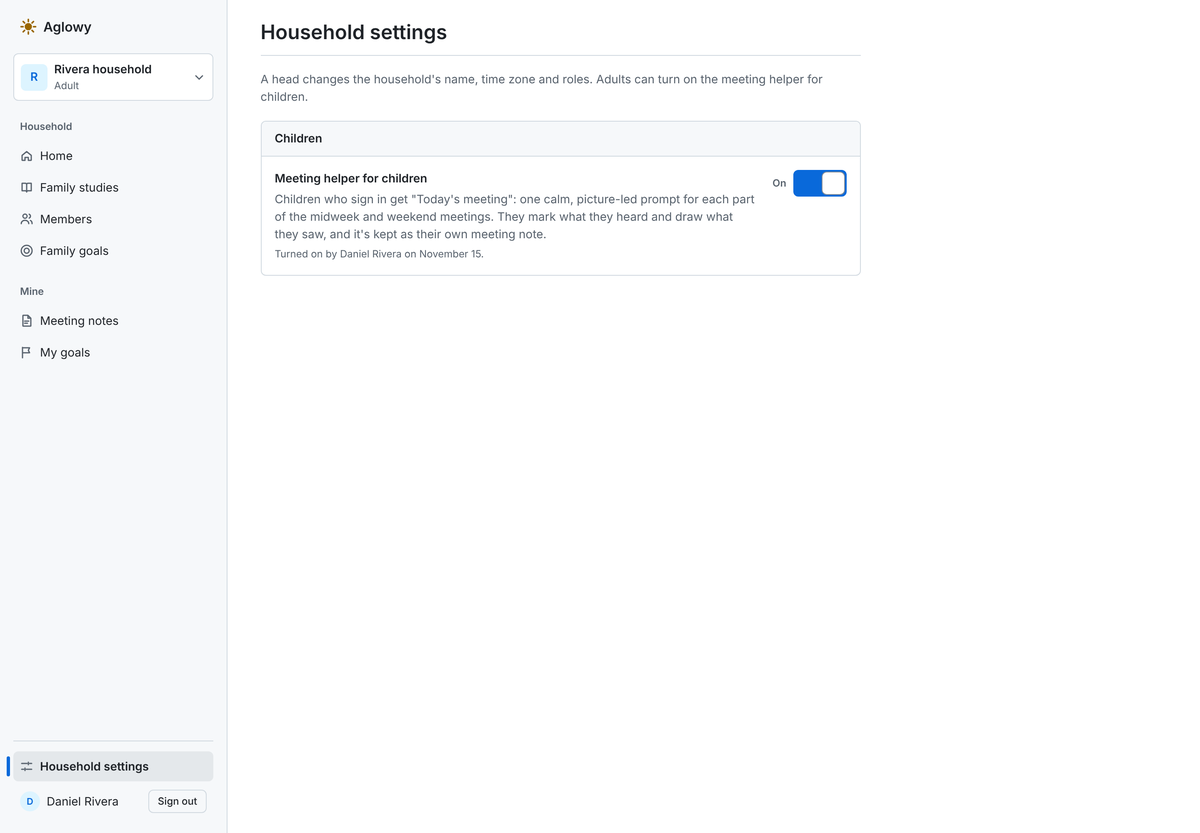
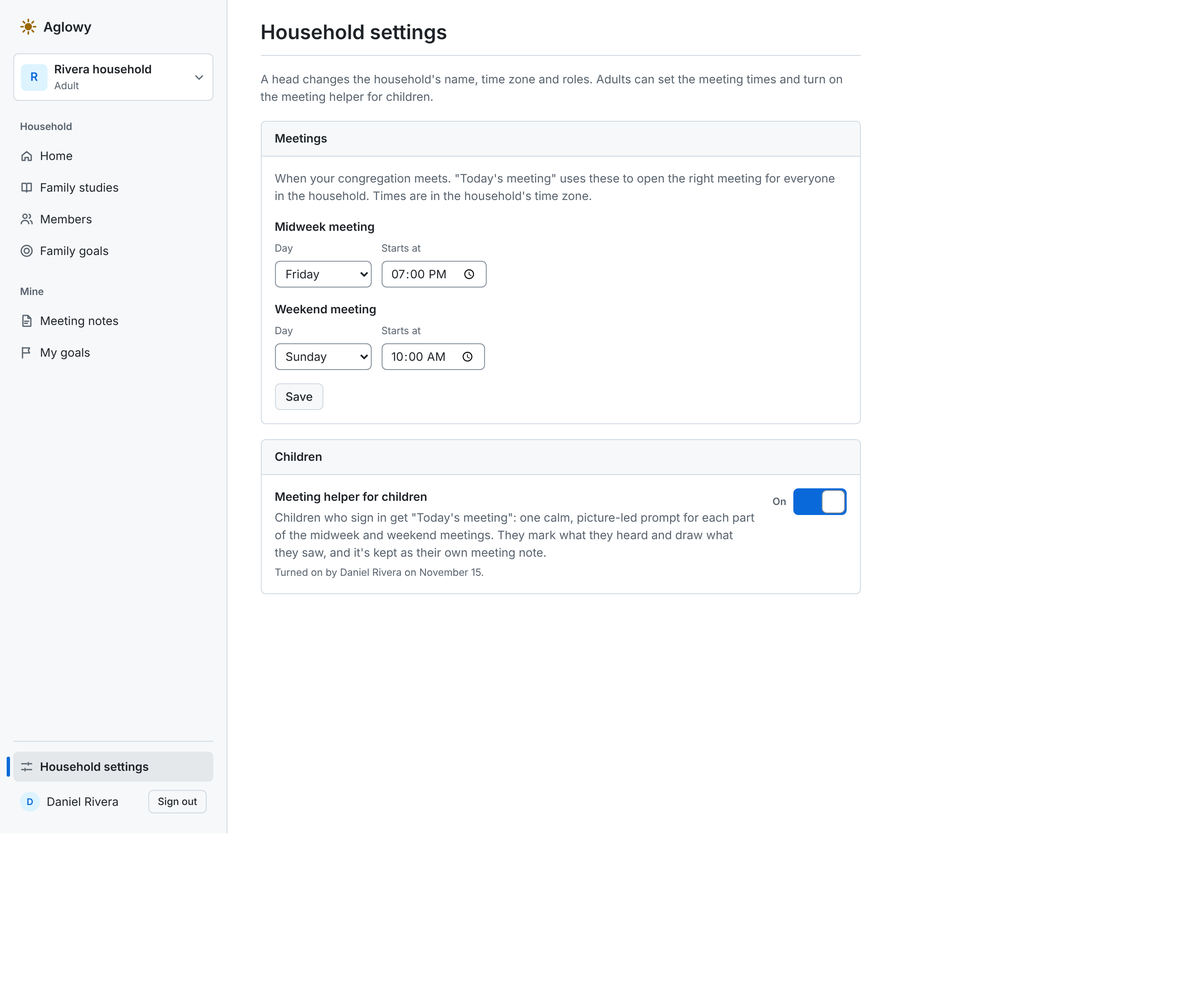
Design: Today's meeting for everyone, plus review fixes
Heads and adults set the meeting times in Household settings. Today's
meeting opens the current or next meeting: the helper for a child when
it's on, the person's meeting note otherwise. Sidebar item always; Home
card on meeting days; a picker before times are set.

Review fixes: the drawing image route uses the shared-note lookup and
not the helper policy; the meeting_helper layout is named as the
exception in CLAUDE.md and app-shell.md; the sidebar rule in
invitations.md includes adults.

Claude-Session: https://claude.ai/code/session_0134z7YhxhHiNN5ED15LNroy

diff --git a/docs/design/meeting-helper.md b/docs/design/meeting-helper.md
@@ -1,49 +1,91 @@
-# Meeting helper for children
+# Today's meeting and the meeting helper for children
 
-"Today's meeting" helps a young child stay with each part of a congregation meeting. It runs on the child's own tablet: one calm, picture-led prompt per part, a big "I heard it!" button, and a page to draw what they saw. What they do is saved as their own meeting note, and they can show it to their family afterwards.
+**Today's meeting** opens the right congregation meeting for everyone in the household. A head or adult sets when the midweek and weekend meetings happen, in Household settings. On a meeting day, Home shows a "Today's meeting" card, and the sidebar always has a "Today's meeting" item that opens the current or next meeting.
 
-Read this before touching `Household::MeetingHelper`, `MeetingNote::Mark`, `MeetingNote::Drawing`, `MeetingNote::HelperSteps`, the `meeting_helper` layout or the Children section of Household settings. Stories live under the **KIDS-01** epic. Mockup frames are in `docs/design/meeting-helper/`.
+- **Most people** land on their own meeting note for that meeting, ready to take notes.
+- **A child, when the household has turned on the meeting helper,** gets the helper instead. It runs on the child's own tablet: one calm, picture-led prompt per part, a big "I heard it!" button, and a page to draw what they saw. It's saved as their own meeting note, and they can show it to their family afterwards.
 
-This builds on `docs/design/meeting-notes.md` (a helper note *is* a `MeetingNote`), `docs/design/invitations.md` (child username logins, Household settings) and `docs/design/app-shell.md`.
+Read this before touching meeting times on `Household`, `Household::Meeting`, `Household::MeetingHelper`, `MeetingNote::Mark`, `MeetingNote::Drawing`, `MeetingNote::HelperSteps`, `TodaysMeetingsController`, the `meeting_helper` layout, or the Meetings and Children sections of Household settings. Stories live under the **KIDS-01** epic. Mockup frames are in `docs/design/meeting-helper/`.
+
+This builds on these docs:
+- `docs/design/meeting-notes.md`: every Today's meeting note *is* a `MeetingNote`.
+- `docs/design/invitations.md`: child username logins and Household settings.
+- `docs/design/app-shell.md`.
 
 ## Decisions (Casey, 15 Nov)
 
-- **For children aged about 4 to 8**, on a children's tablet, signed in with their own username login.
-- **Off by default.** A head or an adult turns it on for the household in Household settings.
+- **Today's meeting is for everyone in the household.**
+  - Heads and adults set the meeting times in Household settings: a day and a start time for the midweek meeting and for the weekend meeting.
+  - Children with the helper on get the helper. Everyone else, including children while the helper is off, gets their own meeting note.
+- **The sidebar item always shows; the Home card shows only on meeting days.** Home stays calm on other days.
+- **Before any times are set,** Today's meeting asks "Which meeting is it?", with Midweek and Weekend.
+- **The helper is for children aged about 4 to 8**, on a children's tablet, signed in with their own username login.
+- **The helper keeps its own switch, off by default.** A head or an adult turns it on in Household settings.
 - **Pictures over words.** Many children this age can't read yet, so every part has a big icon and one short prompt a parent can read aloud before the meeting.
 - **Drawing is the main way to respond.** Typing stays on the normal meeting note page for older children.
-- **Calm, and nothing that nags:** dark screen, no sounds, no animation, no points, streaks or rewards (`docs/product/vision.md`, goal 4).
-- **Entry points:** a "Today's meeting" card at the top of a child's Home, and a "Today's meeting" item in the sidebar's Mine group, both only while the helper is on.
-- **A parent reads it** when the child taps "Show my family", which is the existing meeting-note sharing. The shared note shows "Talk about it with <child>" questions taken from the prompts. No AI.
+- **Calm, and nothing that nags:** a dark screen, no sounds, no animation, and no points, streaks or rewards (`docs/product/vision.md`, goal 4).
+- **A parent reads it** when the child taps "Show my family", using the existing meeting-note sharing. The shared note shows "Talk about it with <child>" questions taken from the prompts. No AI.
 
 ## What KIDS-01 builds, and what comes later
 
 | In KIDS-01 | Later |
 | --- | --- |
-| The household switch, for heads and adults | Preparing a Watchtower comment with a parent beforehand ("Your paragraph is 7") |
-| Today's meeting: pick midweek or weekend, then one part at a time | Prompts written for that week's program |
-| "I heard it!" marks | A child mode on a parent's phone, for children without a login |
-| Drawing on a part | Light theme for the helper |
-| The end screen and "Show my family" | Spoken prompts (would need sound in the hall; not planned) |
-| Home card and sidebar item | |
-| A parent reading the helper note, with "Talk about it" | |
+| Meeting times in Household settings, for heads and adults | Weeks with no meetings (assemblies, conventions) and circuit overseer visit weeks |
+| Today's meeting for everyone: sidebar item, Home card on meeting days, the right note | Preparing a Watchtower comment with a parent beforehand ("Your paragraph is 7") |
+| The helper switch, for heads and adults | Prompts written for that week's program |
+| The helper: one part at a time, "I heard it!" marks, drawing | A child mode on a parent's phone, for children without a login |
+| The helper's end screen and "Show my family" | Light theme for the helper |
+| A parent reading a helper note, with "Talk about it" | Reminders before a meeting (with notifications) |
 
 ## Who can do what
 
 | Action | Head | Adult | Child |
 | --- | --- | --- | --- |
-| Turn the helper on or off for the household | yes | yes | no |
-| Open Household settings | yes, the whole page | yes, the Children section only (**new**) | no |
-| Use Today's meeting | no | no | yes, while the helper is on |
-| Read a helper note | their own | their own | their own; also any note shared with the household, like every meeting note |
+| Set the meeting times | yes | yes | no |
+| Turn the helper on or off | yes | yes | no |
+| Open Household settings | yes, the whole page | yes, the Meetings and Children sections only (**new**) | no |
+| Open Today's meeting | yes, their meeting note | yes, their meeting note | yes: the helper while it's on, otherwise their meeting note |
+| Use the helper's steps, marks, drawing and end screen | no | no | yes, while the helper is on |
+| Read a helper note | their own | their own | their own; and, like every meeting note, any note shared with the household |
 
-- Today's meeting is for **children only** in KIDS-01. A head or adult who visits its URLs gets a 404, and so does a child while the helper is off.
-- **Hiding the card isn't authorization** (app-shell.md): every helper controller checks the policy too.
-- Turning the helper off hides Today's meeting. It never deletes a child's marks or drawings, which are the child's own content.
+- The helper's own pages (steps, marks, drawing editing, the end screen) are **for children only, while the helper is on**. Anyone else gets a 404 there.
+- **The drawing image route is not a helper page.** It follows the meeting-note reading rule instead, so a parent can see a shared drawing, even after the helper is turned off. See Trap 1.
+- **Hiding a link isn't authorization** (app-shell.md): every controller checks its own policy.
+- Turning the helper off hides the helper. It never deletes a child's marks or drawings, which are the child's own content.
 
-## The steps
+## Meeting times
 
-A helper note follows a fixed list of steps per meeting kind, defined in code like `MeetingNote::Outline`. The steps are not the outline's parts: songs and prayers are steps but not parts, and Field Ministry is one step even when the program has several parts. `MeetingNote::HelperSteps` (a PORO in `app/models/meeting_note/helper_steps.rb`) holds them. Each `Step` is a `Data` with `key`, `title`, `short_title`, `prompt`, `draw_prompt`, `mark_label`, `marked_label`, `icon`, `tone` and `talk_question`.
+### On `Household`
+
+| Column | Type | Constraint | Why |
+| --- | --- | --- | --- |
+| `midweek_meeting_wday` | smallint | nullable, check between 0 and 6 | Ruby's `wday`: 0 is Sunday |
+| `midweek_meeting_time` | time | nullable | Wall-clock time in the household's time zone |
+| `weekend_meeting_wday` | smallint | nullable, check between 0 and 6 | |
+| `weekend_meeting_time` | time | nullable | |
+| check | | all four null, or all four set (`num_nulls(...) in (0, 4)`) | Times are set together |
+
+These are settings, not state, so plain columns are right here; State as Records doesn't apply. `household.meeting_times_set?` is true when they're set.
+
+### `Household::Meeting`
+
+A PORO (`Data.define(:kind, :starts_at)`) in `app/models/household/meeting.rb`, with:
+- `week_of`: `starts_at.to_date.beginning_of_week(:monday)`. A Sunday weekend meeting belongs to the week that started the Monday before, matching `MeetingNote`'s `week_of`.
+- `ends_at`: `starts_at + Household::Meeting::LENGTH`, where `LENGTH` is 2 hours.
+- `title`: "Midweek meeting" or "Weekend meeting".
+
+`household.current_or_next_meeting(now = Time.current)` works it out:
+1. In the household's time zone, build each kind's occurrence in this week and in next week. The date is the Monday plus `(wday - 1) % 7` days, and the time comes from `ActiveSupport::TimeZone#local`, so changes to and from daylight saving time are right.
+2. Return the earliest occurrence whose `ends_at` is after `now`.
+3. Return nil when the times aren't set.
+
+`household.meeting_day?(now)` is true when `current_or_next_meeting` starts today, in the household's time zone.
+
+## The helper's steps
+
+A helper note follows a fixed list of steps per meeting kind, defined in code like `MeetingNote::Outline`. The steps are not the outline's parts: songs and prayers are steps but not parts, and Field Ministry is one step even when the program has several parts.
+
+`MeetingNote::HelperSteps` is a PORO in `app/models/meeting_note/helper_steps.rb`. Each `Step` is a `Data` with `key`, `title`, `short_title`, `prompt`, `draw_prompt`, `mark_label`, `marked_label`, `icon`, `tone` and `talk_question`.
 
 **Midweek (8 steps)**
 
@@ -67,9 +109,9 @@ A helper note follows a fixed list of steps per meeting kind, defined in code li
 | `watchtower_study` | Watchtower Study | Look at the pictures. Raise your hand if you know an answer. | Draw a picture from the study. | I watched! / Watched it | weekend | Which picture did you like? |
 | `closing_song` | Song and prayer | Sing the last song together. | Draw something you sang about. | We sang! / Sang it | song | What was the last song about? |
 
-Tones map to the meeting-note section dots: `treasures` → muted, `ministry` and `weekend` → attention, `living` → danger, `song` → accent. When a drawing exists, its "Talk about it" question becomes "Tell me about your drawing" followed by the step's short title.
+Tones map to the meeting-note section dots: `treasures` → muted, `ministry` and `weekend` → attention, `living` → danger, `song` → accent. When a step has a drawing, its "Talk about it" question becomes "Tell me about your drawing" followed by the step's short title.
 
-Icons are our own decorative SVGs in `app/assets/images/meeting_helper/` (music, ear, gem, book, people talking, house with heart, picture, raised hand), drawn as 24px outlines with 1.75px strokes like the mockup, rendered inline with `aria-hidden="true"`. Octicons has no ear, gem or raised hand.
+Icons are our own decorative SVGs in `app/assets/images/meeting_helper/` (music, ear, gem, book, people talking, house with heart, picture, raised hand). They're drawn as 24px outlines with 1.75px strokes like the mockup and rendered inline with `aria-hidden="true"`. Octicons has no ear, gem or raised hand.
 
 ## Models
 
@@ -83,7 +125,10 @@ The switch is a record, not a boolean (CLAUDE.md, State as Records): it exists w
 | `enabled_by_id` | uuid | FK → users, not null | "Turned on by Daniel Rivera on November 15" |
 | `created_at`, `updated_at` | datetime | | When it was turned on |
 
-`Household has_one :meeting_helper`. `household.enable_meeting_helper(by:)` uses `create_or_find_by!`, so two adults turning it on at once can't make two rows or raise. `household.disable_meeting_helper` deletes it. `household.meeting_helper?` reads it.
+- `Household has_one :meeting_helper`.
+- `household.enable_meeting_helper(by:)` uses `create_or_find_by!`, so two adults turning it on at once can't make two rows or raise.
+- `household.disable_meeting_helper` deletes it.
+- `household.meeting_helper?` reads it.
 
 ### `MeetingNote::Mark`
 
@@ -106,63 +151,121 @@ The switch is a record, not a boolean (CLAUDE.md, State as Records): it exists w
 | `created_at`, `updated_at` | datetime | | |
 | unique index | | (`meeting_note_id`, `step`) | One drawing per step; drawing again replaces it |
 
-`MeetingNote has_many :marks` and `has_many :drawings` (both `dependent: :destroy`, so attachments are purged). A drawing is personal content: it does not count toward the household's storage quota. Images aren't encrypted by the app (they aren't text); they live in the private bucket and are only served through an authorizing controller, like family study files (family-studies.md, Files; gotcha 22).
+- `MeetingNote has_many :marks` and `has_many :drawings`, both `dependent: :destroy`, so attachments are purged.
+- A drawing is personal content: it doesn't count toward the household's storage quota.
+- Images aren't encrypted by the app, because they aren't text. They live in the private bucket and are only served through an authorizing controller, like family study files (family-studies.md, Files; gotcha 22).
 
-`MeetingNote#helper_steps` returns `HelperSteps.for(kind)`. `MeetingNote#mark(step)` and `#unmark(step)` add or remove a mark, `MeetingNote#helper_used?` is true when it has any marks or drawings, and `MeetingNote#talk_questions` returns up to 3 questions, from drawn steps first, then marked ones, in step order.
+Methods on `MeetingNote`:
+- `helper_steps` returns `HelperSteps.for(kind)`.
+- `mark(step)` and `unmark(step)` add or remove a mark.
+- `helper_used?` is true when the note has any marks or drawings.
+- `talk_questions` returns up to 3 questions: drawn steps first, then marked ones, in step order.
 
 ## Pages
 
 | Page | Route | What's on it |
 | --- | --- | --- |
-| Household settings, Children section | `GET /:household_id/settings` (existing); `PATCH /:household_id/meeting_helper` (`Households::MeetingHelpersController#update`) | Frames `household-settings-head.png`, `household-settings-adult.png`. A Primer `BorderBox` "Children". The mockup draws a switch; build it as a Primer form (`Households::MeetingHelperForm`) with one check box, "Meeting helper for children", its caption, and a Save button. Primer's ToggleSwitch only POSTs a value to one URL, which doesn't fit our CRUD routes. When it's on, a muted line says "Turned on by <name> on <date>". Adults see only this section and a line saying a head changes the name, time zone and roles |
-| Today's meeting, pick | `GET /:household_id/todays_meeting` (`TodaysMeetingsController#show`) | Frame `tablet-pick.png`. "Hi, <first name>!", "Which meeting is it?", and two big buttons, Midweek meeting (8 parts) and Weekend meeting (4 parts) |
-| Start | `POST /:household_id/todays_meeting` (`kind`) | `Current.user.start_meeting_note(kind:, week_of: Current.membership.this_week)`, then redirect to the first step |
-| A step | `GET /:household_id/meeting_notes/:meeting_note_id/steps/:id` (`MeetingNotes::StepsController#show`; `:id` is the step key) | Frames `tablet-listen.png`, `tablet-listen-light.png` (light shown for reference only), `tablet-weekend-watchtower.png`. The step's title in small print with its tone dot, the big icon, the prompt as the `h1`, the mark button and "Draw it" ("My drawing" when one exists), and Back and Next ("Finish" on the last step). Back on the first step goes to the picker |
+| Household settings, Meetings section | `GET /:household_id/settings` (existing); `PATCH /:household_id/meeting_times` (`Households::MeetingTimesController#update`) | Frames `household-settings-head.png`, `household-settings-adult.png`. A `BorderBox` "Meetings" with a line explaining what the times are for, then a Primer form (`Households::MeetingTimesForm`): for each meeting, a Day select (Monday to Sunday) and a "Starts at" time field, then Save. All four are required together |
+| Household settings, Children section | `PATCH /:household_id/meeting_helper` (`Households::MeetingHelpersController#update`) | A `BorderBox` "Children". The mockup draws a switch; build it as a Primer form (`Households::MeetingHelperForm`) with one check box, "Meeting helper for children", its caption, and a Save button, because Primer's ToggleSwitch only POSTs a value to one URL, which doesn't fit our CRUD routes. When the helper is on, a muted line says "Turned on by <name> on <date>". Adults see the Meetings and Children sections and a line saying a head changes the name, time zone and roles |
+| Today's meeting | `GET /:household_id/todays_meeting` (`TodaysMeetingsController#show`) | See below. A child with the helper gets the `meeting_helper` layout; everyone else gets the household layout |
+| Start | `POST /:household_id/todays_meeting` (`kind` and `week_of` from the page, checked against what the page offered) | `Current.user.start_meeting_note(kind:, week_of:)`, then the note's first step (a child with the helper) or the note's edit page (everyone else) |
+| A step | `GET /:household_id/meeting_notes/:meeting_note_id/steps/:id` (`MeetingNotes::StepsController#show`; `:id` is the step key) | Frames `tablet-listen.png`, `tablet-listen-light.png` (light shown for reference only), `tablet-weekend-watchtower.png`. The step's title in small print with its tone dot, the big icon, the prompt as the `h1`, the mark button and "Draw it" ("My drawing" once one exists), and Back and Next ("Finish" on the last step). Back on the first step goes to Today's meeting |
 | Mark | `POST` / `DELETE …/steps/:step_id/mark` (`MeetingNotes::Steps::MarksController`) | Turbo Stream replaces the mark button: "I heard it!" ↔ "✓ Heard it" (`aria-pressed`) |
-| Draw | `GET …/steps/:step_id/drawing/edit`, `PATCH …/steps/:step_id/drawing` (`MeetingNotes::Steps::DrawingsController`) | Frame `tablet-draw.png`. The draw prompt as the `h1`, "All done", the canvas, seven colours, Undo and Start over. An existing drawing loads onto the canvas so the child can add to it. "All done" saves and returns to the step |
-| A drawing's image | `GET …/steps/:step_id/drawing` (`show`) | Authorizes (the author, or a member the note is shared with), then redirects to a short-lived service URL |
-| The end | `GET /:household_id/meeting_notes/:meeting_note_id/summary` (`MeetingNotes::SummariesController#show`) | Frame `tablet-done.png`. "You listened all the way through!", a tile per step with its mark or drawing, "Show my family" (the existing `POST …/sharing`, which returns here) or "Your family can see it now", and "Finished" to Home |
-| Child's Home | `GET /:household_id` | Frame `child-home.png`. While the helper is on and the viewer is a child: a "Today's meeting" card above the columns with "Start", and "Today's meeting" (Octicon `sun`) first in the sidebar's Mine group |
-| A helper note, read | `GET /:household_id/meeting_notes/:id` (existing) | Frame `phone-parent.png`. When `helper_used?`: a "From Today's meeting" section with "Talk about it with <first name>" (from `talk_questions`) and each step with its mark or drawing. It shows for the author and for members it's shared with. Empty outline parts stay hidden as today |
+| Draw | `GET …/steps/:step_id/drawing/edit`, `PATCH …/steps/:step_id/drawing` (`MeetingNotes::Steps::DrawingsController`) | Frame `tablet-draw.png`. The draw prompt as the `h1`, "All done", the canvas, seven colours, Undo and Start over. An existing drawing loads onto the canvas so the child can add to it. "All done" saves and goes back to the step |
+| A drawing's image | `GET …/steps/:step_id/drawing` (`show`) | Not a helper page (Trap 1). Finds the note among the person's own notes or those shared into this household, authorizes with `MeetingNotePolicy#show?`, then redirects to a short-lived service URL |
+| The end | `GET /:household_id/meeting_notes/:meeting_note_id/summary` (`MeetingNotes::SummariesController#show`) | Frame `tablet-done.png`. "You listened all the way through!", a tile per step with its mark or drawing, "Show my family" (the existing `POST …/sharing`, which comes back here) or "Your family can see it now", and "Finished" to Home |
+| Home on a meeting day | `GET /:household_id` | Frames `adult-home-meeting.png`, `child-home.png`. Above the columns, a "Today's meeting" card shows the meeting's title and start time ("Midweek meeting · 7:00 PM"). For a child with the helper, it says "Listen for things and draw what you see, one part at a time." with **Start**. For everyone else, it says "Take notes as you go. They stay yours in every household." with **Open my notes**. The button posts to Start |
+| Sidebar | every household page | "Today's meeting" (Octicon `sun`) comes first in the Mine group for every member, always |
+| A helper note, read | `GET /:household_id/meeting_notes/:id` (existing) | Frame `phone-parent.png`. When `helper_used?`, a "From Today's meeting" section shows "Talk about it with <first name>" (from `talk_questions`) and each step with its mark or drawing, for the author and for members it's shared with. Empty outline parts stay hidden as they are today |
+
+### The Today's meeting page
+
+`GET` never creates anything. Turbo prefetches links on hover, so a page that made notes on `GET` would make them for anyone who hovered the sidebar.
+
+- **Times set:**
+  - If the person already has a note for `current_or_next_meeting`, redirect to it: its first step for a child with the helper, its edit page for everyone else.
+  - Otherwise show that one meeting: its title, day and start time ("Midweek meeting · Friday 7:00 PM"), and one big button, "Start my notes" or, for a child with the helper, "Start".
+- **No times set:**
+  - "Which meeting is it?" with two buttons, Midweek meeting and Weekend meeting, for this week (`Current.membership.this_week`). This is frame `tablet-pick.png` for a child with the helper.
+  - Heads and adults also see "Set your meeting times" linking to Household settings.
 
 ### The `meeting_helper` layout
 
-- Full screen, no sidebar: a header with "Back to Aglowy" (an icon link to Home with `aria-label`), the step dots (decorative, with visually hidden "Part 2 of 8: Treasures From God's Word"), and the meeting's name.
-- `<body data-color-mode="dark" data-light-theme="light" data-dark-theme="dark">`: always dark in KIDS-01. A bright screen glows in a meeting hall.
+- Full screen, no sidebar.
+  - A header with "Back to Aglowy": an icon link to Home with an `aria-label`.
+  - The step dots, decorative, with visually hidden text like "Part 2 of 8: Treasures From God's Word".
+  - The meeting's name.
+- `<body data-color-mode="dark" data-light-theme="light" data-dark-theme="dark">`: always dark in KIDS-01, because a bright screen glows in a meeting hall.
 - `lang`, `<main>` and landmarks as everywhere. The page title is "Today's meeting".
-- Sizes (base-size primitives): prompt 46px type, mark and draw buttons at least 96px tall, Back and Next at least 72px, colour swatches 60px. Use Primer `Button` with a BEM modifier for the large size, and other BEM classes in `app/assets/stylesheets/components/_meeting_helper.scss`, built only from primitives.
+- Sizes, from base-size primitives:
+  - prompt type 46px
+  - mark and draw buttons at least 96px tall
+  - Back and Next at least 72px tall
+  - colour swatches 60px
+- Use Primer `Button` with a BEM modifier for the large size. Other styles are BEM classes in `app/assets/stylesheets/components/_meeting_helper.scss`, built only from primitives.
 - No sounds, no CSS transitions or animations, no counters.
 
-### Drawing
+## Drawing
 
-- A `<canvas>` with a Stimulus controller (`meeting_helper/drawing_controller.js`): pointer events (`pointerdown`, `pointermove`, `pointerup`, `pointercancel`) with `setPointerCapture`, and `touch-action: none` so the tablet doesn't scroll.
-- Draw at a fixed 1116×470 logical size, scaled by `devicePixelRatio`. Strokes are 9px round in the picked colour on the dark paper colour.
-- Undo pops the last stroke and redraws; Start over clears.
-- "All done": `canvas.toBlob("image/png")`, put the file into the form's hidden file input with `DataTransfer`, and submit. The form is a Primer form class with that file input inside, the same pattern as the file drop zone.
+- A `<canvas>` with a Stimulus controller (`meeting_helper/drawing_controller.js`).
+- Pointer events (`pointerdown`, `pointermove`, `pointerup`, `pointercancel`) with `setPointerCapture`, and `touch-action: none` so the tablet doesn't scroll.
+- Draw at a fixed 1116×470 logical size, scaled by `devicePixelRatio`, with 9px round strokes in the picked colour on the dark paper colour.
+- Undo removes the last stroke and redraws; Start over clears.
+- "All done":
+  1. `canvas.toBlob("image/png")`.
+  2. Put the file into the form's hidden file input with `DataTransfer`.
+  3. Submit. The form is a Primer form class with that file input inside, the same pattern as the file drop zone.
 - The canvas has `role="img"` and `aria-label="Drawing space. Draw with your finger."`. Drawing is optional; everything else works from the keyboard.
 
-## CLAUDE.md change in this design PR
+## CLAUDE.md and app-shell.md changes in this design PR
 
-Add a **third approved exception** to Forms and to the Primer rule: the meeting helper's child screens (large touch targets in BEM Sass from primitives) and its drawing canvas (Stimulus). Primer has neither. Both still use Primer `Button` and a Primer form wherever a button or form appears.
+- **Forms:** a third approved exception, for the meeting helper's child screens (large touch targets in BEM Sass from primitives) and its drawing canvas (Stimulus). Primer has neither. Both still use Primer `Button` and a Primer form wherever a button or form appears.
+- **Layouts:**
+  - The `meeting_helper` layout is the one household-scoped exception to "Household pages use the `household` layout". It's used only for a child with the helper on.
+  - It's also the one exception to automatic theming: it's always dark.
 
 ## Traps
 
-1. **The note comes from `Current.user`.** `Current.user.meeting_notes.find(params[:meeting_note_id])`, so anyone else's note is a 404, including on the drawing image route, which also allows members the note is shared with (reuse `MeetingNotePolicy#show?`).
-2. **A step key that isn't in the note's kind is a 404**, never a 500 (`HelperSteps.for(kind).fetch(key)` raising `ActiveRecord::RecordNotFound`).
-3. **The week comes from `Current.membership.this_week`,** which respects the person's or household's time zone. `start_meeting_note` finds or creates on the unique index, so a double tap can't make two notes.
-4. **Turning the helper off deletes nothing** of the children's. Turning it on twice at once makes one row (`create_or_find_by!`, unique index).
-5. **The policy needs both** a child membership and the household's helper. A child whose role changes to adult loses Today's meeting, but keeps their notes.
-6. **Validate drawings on the server:** content type `image/png` from the blob's analysis, not the request header, and at most 2 MB. A bad file is a validation error, not a 500.
-7. **Never render `url_for(drawing.image)`** in a page; always the authorizing `drawing` route (gotcha 22).
-8. **Household settings opens to adults** for the Children section only. `HouseholdPolicy#update?` (name, time zone) stays heads-only; add `HouseholdPolicy#edit?` for heads and adults, and `Household::MeetingHelperPolicy#update?` for heads and adults. The sidebar footer shows Household settings to heads and adults.
-9. **No animation sneaks in.** Primer's default button transitions are fine; add nothing that moves on its own.
+1. **Find the note the right way for each route.**
+   - Helper pages: `Current.user.meeting_notes.find(params[:meeting_note_id])`, so anyone else's note is a 404.
+   - The drawing image route: `Current.user.meeting_notes.find_by(id:) || MeetingNote.shared_with(Current.household).find(id)`, the same lookup `MeetingNotesController#show` uses, then `authorize note, :show?`. It doesn't check `MeetingHelperPolicy`, so a parent can read a shared drawing, and it still works after the helper is turned off.
+2. **A step key that isn't in the note's kind is a 404**, never a 500. `HelperSteps.for(kind).fetch(key)` raises `ActiveRecord::RecordNotFound`.
+3. **The meeting week comes from `Household::Meeting#week_of`,** in the household's time zone. Without times, the picker uses `Current.membership.this_week`. `start_meeting_note` finds or creates on the unique index, so a double tap can't make two notes.
+4. **Check what Start was given.** `POST todays_meeting` accepts only the `kind` and `week_of` the page could have offered: the current or next meeting, or, without times, this week's two. Anything else is a 404.
+5. **Daylight saving time:** build meeting times with `zone.local(date.year, date.month, date.day, hour, min)`, never by adding hours to a UTC time.
+6. **The helper needs both** a child membership and the household's helper switch. A child whose role changes to adult gets their meeting note instead, and keeps their old notes.
+7. **Turning the helper off deletes nothing** of the children's. Turning it on twice at once makes one row (`create_or_find_by!` with the unique index).
+8. **Validate drawings on the server:** the content type `image/png` from the blob's analysis, not the request header, and at most 2 MB. A bad file is a validation error, not a 500.
+9. **Never render `url_for(drawing.image)`** in a page; always use the authorizing `drawing` route (gotcha 22).
+10. **Household settings opens to adults**, for the Meetings and Children sections only.
+    - `HouseholdPolicy#update?` (name and time zone) stays heads-only.
+    - Add `HouseholdPolicy#edit?` for heads and adults.
+    - `Households::MeetingTimesController` and `Households::MeetingHelpersController` authorize `HouseholdPolicy#manage_meetings?`, for heads and adults.
+    - The sidebar footer shows Household settings to heads and adults.
+11. **No animation sneaks in.** Primer's default button transitions are fine; add nothing that moves on its own.
 
 ## States each story checks
 
-- Helper off: no card, no sidebar item, Today's meeting 404s for a child.
-- Helper on: the child sees the card and the item; a head or adult still gets a 404 on Today's meeting.
-- Each step for midweek and weekend; first-step Back to the picker; last-step Finish to the summary.
-- Marked and unmarked; drawn and not drawn; drawing again replaces the old one.
-- A summary before and after "Show my family".
-- The shared note read by a head: questions and drawings shown; the drawing image route works for them and 404s for someone outside the household.
-- A child who left the household: their shares end, as for every note.
+- **Meeting times:**
+  - not set, so the picker shows
+  - set, on a meeting day before, during and just after the meeting (within 2 hours of the start)
+  - set, on a day with no meeting, so the next meeting shows
+  - the Sunday weekend meeting's `week_of`
+  - a week when daylight saving time changes
+- **Today's meeting:**
+  - a head, an adult, a child with the helper off (meeting note) and a child with it on (helper)
+  - with and without an existing note
+- **Helper off:** the helper's pages 404 for a child, who gets the meeting note instead.
+- **Each step,** for midweek and weekend:
+  - Back on the first step goes to Today's meeting
+  - Finish on the last step goes to the summary
+- **Marks and drawings:**
+  - marked and unmarked
+  - drawn and not drawn
+  - drawing again replaces the old drawing
+- **The summary,** before and after "Show my family".
+- **A shared note read by a head:**
+  - the questions and drawings show
+  - the drawing image route works for them, and still works with the helper turned off
+  - the route 404s for someone outside the household
+- **The Home card:** only on meeting days; Start for a child with the helper, Open my notes for everyone else.

diff --git a/docs/design/app-shell.md b/docs/design/app-shell.md
@@ -31,7 +31,8 @@ this document says otherwise.
 
 | Layout | Used by | Shape |
 | --- | --- | --- |
-| `household` | Every controller that includes `HouseholdScoped` | The app shell: sidebar + main |
+| `household` | Every controller that includes `HouseholdScoped`, except the meeting helper's pages for a child | The app shell: sidebar + main |
+| `meeting_helper` | The meeting helper's pages for a child with the helper on (`docs/design/meeting-helper.md`) | Full screen, always dark, no sidebar |
 | `focused` | Pages outside a household: sign in, password reset, confirmation, sign up, the household chooser, new household | The Aglowy mark at the top left, then one centred column. No sidebar, because there is no household to navigate |
 
 Both keep the `<body>` theming attributes from `CLAUDE.md`
@@ -82,7 +83,7 @@ and `lang` on `<html>`.
 2. **Household switcher:** the current household's name, with the person's role in it (Head, Adult, Child) underneath. Opens a menu of their active households, the current one checked, each with its role. Below a divider, "New household" appears when `HouseholdPolicy#create?` allows it.
 3. **Household group:** Home, Family studies, Members, Family goals.
 4. **Mine group:** Meeting notes, My goals. These follow the person between households (`docs/design/users.md`), which is why they're grouped apart.
-5. **Footer:** Household settings (heads and adults; adults see only its Children section, `docs/design/meeting-helper.md`), then the person's initial and name with a Sign out button.
+5. **Footer:** Household settings (heads and adults; adults see only its Meetings and Children sections, `docs/design/meeting-helper.md`), then the person's initial and name with a Sign out button.
 
 **Main**
 

diff --git a/docs/design/invitations.md b/docs/design/invitations.md
@@ -108,9 +108,9 @@ Leaving runs the existing `Membership#deactivate`, including the steps other epi
 
 ## Household settings (heads)
 
-> Since KIDS-01, adults also open this page, to see only its Children section (the meeting helper switch). Everything below stays heads-only. See `docs/design/meeting-helper.md`.
+> Since KIDS-01, adults also open this page, to see only its Meetings section (meeting times) and Children section (the meeting helper switch). Everything below stays heads-only. See `docs/design/meeting-helper.md`.
 
-At `/:household_id/settings` (`Households::SettingsController`, household layout, frame `household-settings.png`). "Household settings" in the sidebar footer, heads only (`docs/design/app-shell.md`).
+At `/:household_id/settings` (`Households::SettingsController`, household layout, frame `household-settings.png`). "Household settings" in the sidebar footer, for heads and adults since KIDS-01 (`docs/design/app-shell.md`).
 
 - **Name and time zone.** Changing the time zone keeps every future family study session at the same local wall-clock time in the new zone: in one transaction holding `household.lock!`, recompute `scheduled_at` and `recurrence_at` of sessions after now from their local time in the old zone (gotcha 14). Past sessions don't move. The hint says so: "Changing it keeps each study at the same local time."
 - **Members and roles.** A row per active member with a role select and Remove. `PATCH /:household_id/members/:member_id/role` (`Members::RolesController`) calls `membership.change_role`; `DELETE /:household_id/members/:id` calls `membership.deactivate`. Both keep the last-head guard (gotcha 5); a refusal shows "A household needs at least one active head" on that row.

diff --git a/CLAUDE.md b/CLAUDE.md
@@ -183,6 +183,8 @@ households or roles. The non-negotiables:
   `import "@primer/view-components"` in `app/javascript/application.js`.
 - Theming via `data-color-mode="auto" data-light-theme="light"
   data-dark-theme="dark"` on `<body>`. Any new layout must include these.
+  The one exception is the `meeting_helper` layout, which is always
+  `data-color-mode="dark"` (`docs/design/meeting-helper.md`).
 - **Design tokens are Primer primitives** (CSS custom properties like
   `var(--bgColor-default)`, `var(--base-size-16)`, `var(--fgColor-muted)`).
   Never use magic numbers — reference a primitive.
@@ -203,6 +205,8 @@ households or roles. The non-negotiables:
   navigation, a page header or an empty state.
 - Household pages use the `household` layout (sidebar + main, via
   `AppShellComponent`); pages outside a household use the `focused` layout.
+  The exception is the meeting helper for children, which uses the full-screen
+  `meeting_helper` layout (`docs/design/meeting-helper.md`).
 - A navigation item appears only once its page exists.
 - Look at your work: save desktop and phone screenshots from the system test
   and compare them with the mockup frames in `docs/design/app-shell/` before

diff --git a/docs/product/vision.md b/docs/product/vision.md
@@ -46,7 +46,7 @@ Each epic is broken into small stories (GitHub issues labelled `story`). Order c
 | 6 | **GOALS-01** Goals: family and personal milestone goals, steps, sharing (habit goals follow) | Stories filed |
 | 7 | Notifications: in-app list and email | Design done |
 | 8 | Production on AWS: EC2 + Docker Compose, SES, bounce handler | Stack decided |
-| 9 | **KIDS-01** Meeting helper for children: Today's meeting on a child's tablet, marks, drawing, sharing with the family | Design done |
+| 9 | **KIDS-01** Today's meeting: meeting times, the right note for everyone, and the meeting helper for children (marks, drawing, sharing with the family) | Design done |
 
 Design docs live in `docs/design/`; briefs in `docs/briefs/`.
 
